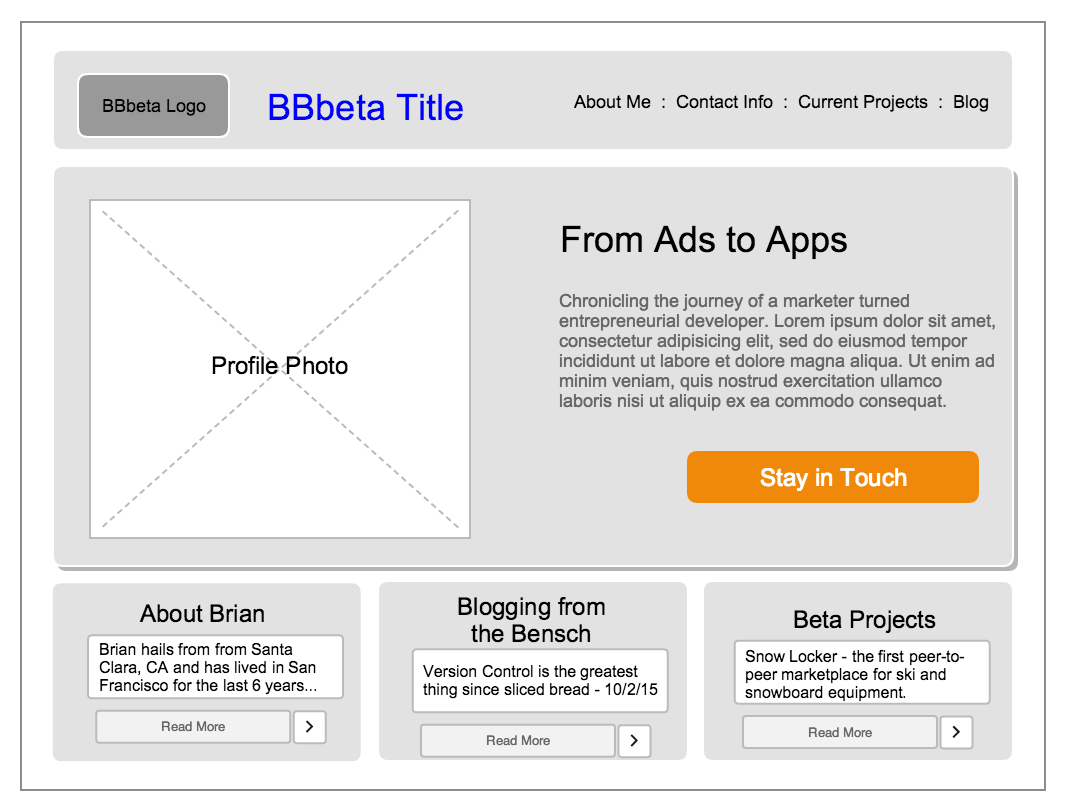
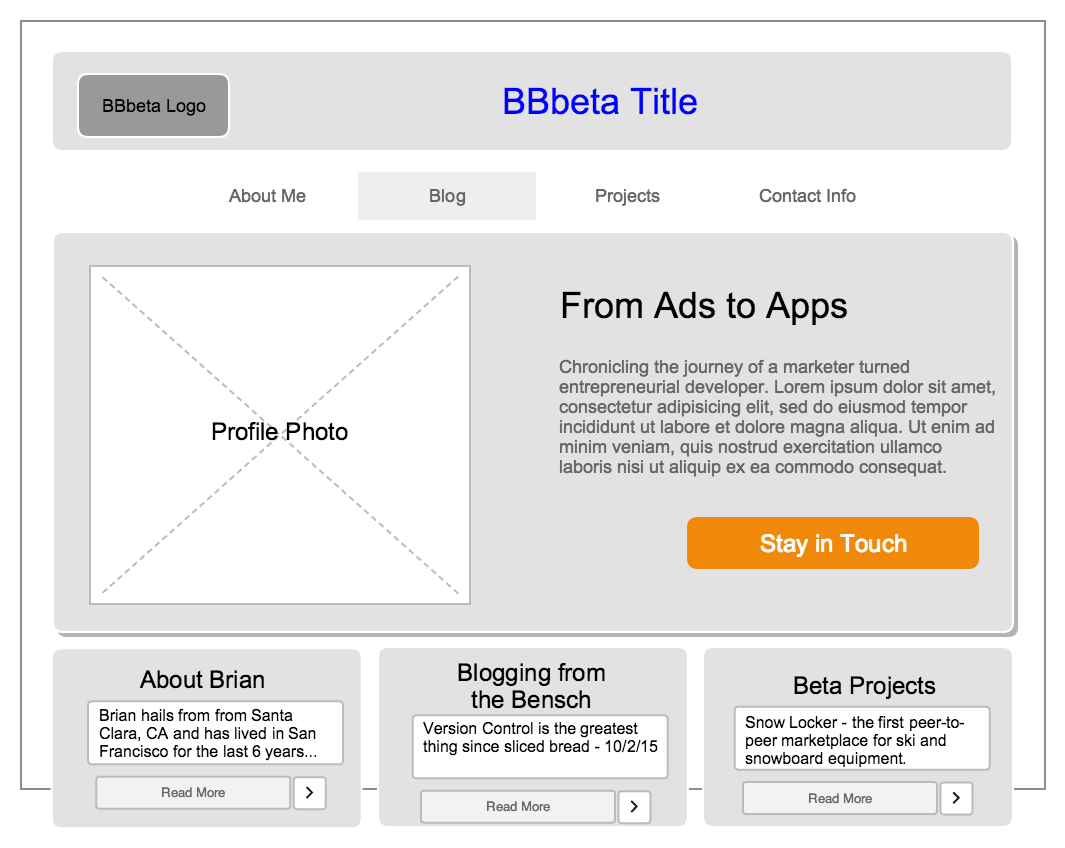
draft of chal 2.8

Changed region(s): [[0.031, 0.0617, 0.9915, 0.9877], [0.031, 0.0, 0.9915, 0.0309], [0.1859, 0.4321, 0.3408, 0.5247]]

diff --git a/index.html b/index.html
@@ -1,6 +1,47 @@
+<!DOCTYPE html>
 <html>
+  <head>
+    <title> Blogging from the Bensch </title>
+  </head>
+
   <body>
-      Brian's DBC website. More to come soon!
-      
+    <header>
+      <img src="imgs/logo-oct7.png" alt="logo" />
+      <h1> Blogging from the Bensch </h1>
+
+      <nav>
+        <ul display:inline>
+            <li> <a href="#" > View Blog        </a> </li>
+            <li> <a href="#" > Current Projects </a> </li>
+            <li> <a href="#" > My GitHub        </a> </li>
+            <li> <a href="#" > About Me         </a> </li>
+        </ul>
+      </nav>
+    </header>
+    <section>
+      <div class="main hero">
+          <h4> From Ads to Apps </h4>
+            <img src="imgs/profile-DBC.jpeg" alt="image that goes with blog" />
+            <p> This site and blog exists to chronicle my journey from the world of digital marketing into a new career as a web developer. MORE TEXT TO COME </p>
+      </div>
+      <div class="button">
+        Stay in touch.
+      </div>
+    </section>
+    <section>
+      <div> About Brian </div>
+      <div> Blogging from the Bensch</div>
+      <div>Brian's Beta Projects</div>
+    </section>
+    <footer>
+      <ul>
+        <li> <a href="#" > Comment </a> </li>
+        <li> <a href="#" > Share to Facebook </a> </li>
+        <li> <a href="#" > Share on Twitter </a> </li>
+      </ul>
+    </footer>
+
   </body>
 </html>
+<!--
+ -->

diff --git a/blog/index.html b/blog/index.html
@@ -50,12 +50,4 @@
   </body>
 </html>
 <!--
-How was it to wireframe and create an HTML page with a pair?
-  - I found it pretty easy and enjoyable to create the wireframe and basic HTML page with my pair. Jon was easy to work with, and we didn't really have many disagreements, and both helped each other out with syntax a few times.
-Did you find wireframing to be helpful to your development process?
-  - Definitely. It was far easy to go from visual image to writing the HTML tags, than trying to do it from scratch with a vague concept of the structure in your head.
-What did you and your pair decide made a good wireframe?
-  - We decided that the wireframe should have all of the core elements a user would expect to see on a blog post page (titles, blog text with images, a nav bar, etc.) and to not worry too much about any color schemes or actual button text.
-What new semantic elements did you learn about (if any) ?
-  - I didn't learn any new elements. Though we did discuss how best to use our hiearchy of h1/h2/h3/etc. tags within HTML5, and that discussion clarified my understanding of the purpose of HTML5, but am still a bit unclear about whether or not we should be reusing <h1>'s in a different <section> tag, for example.
  -->
